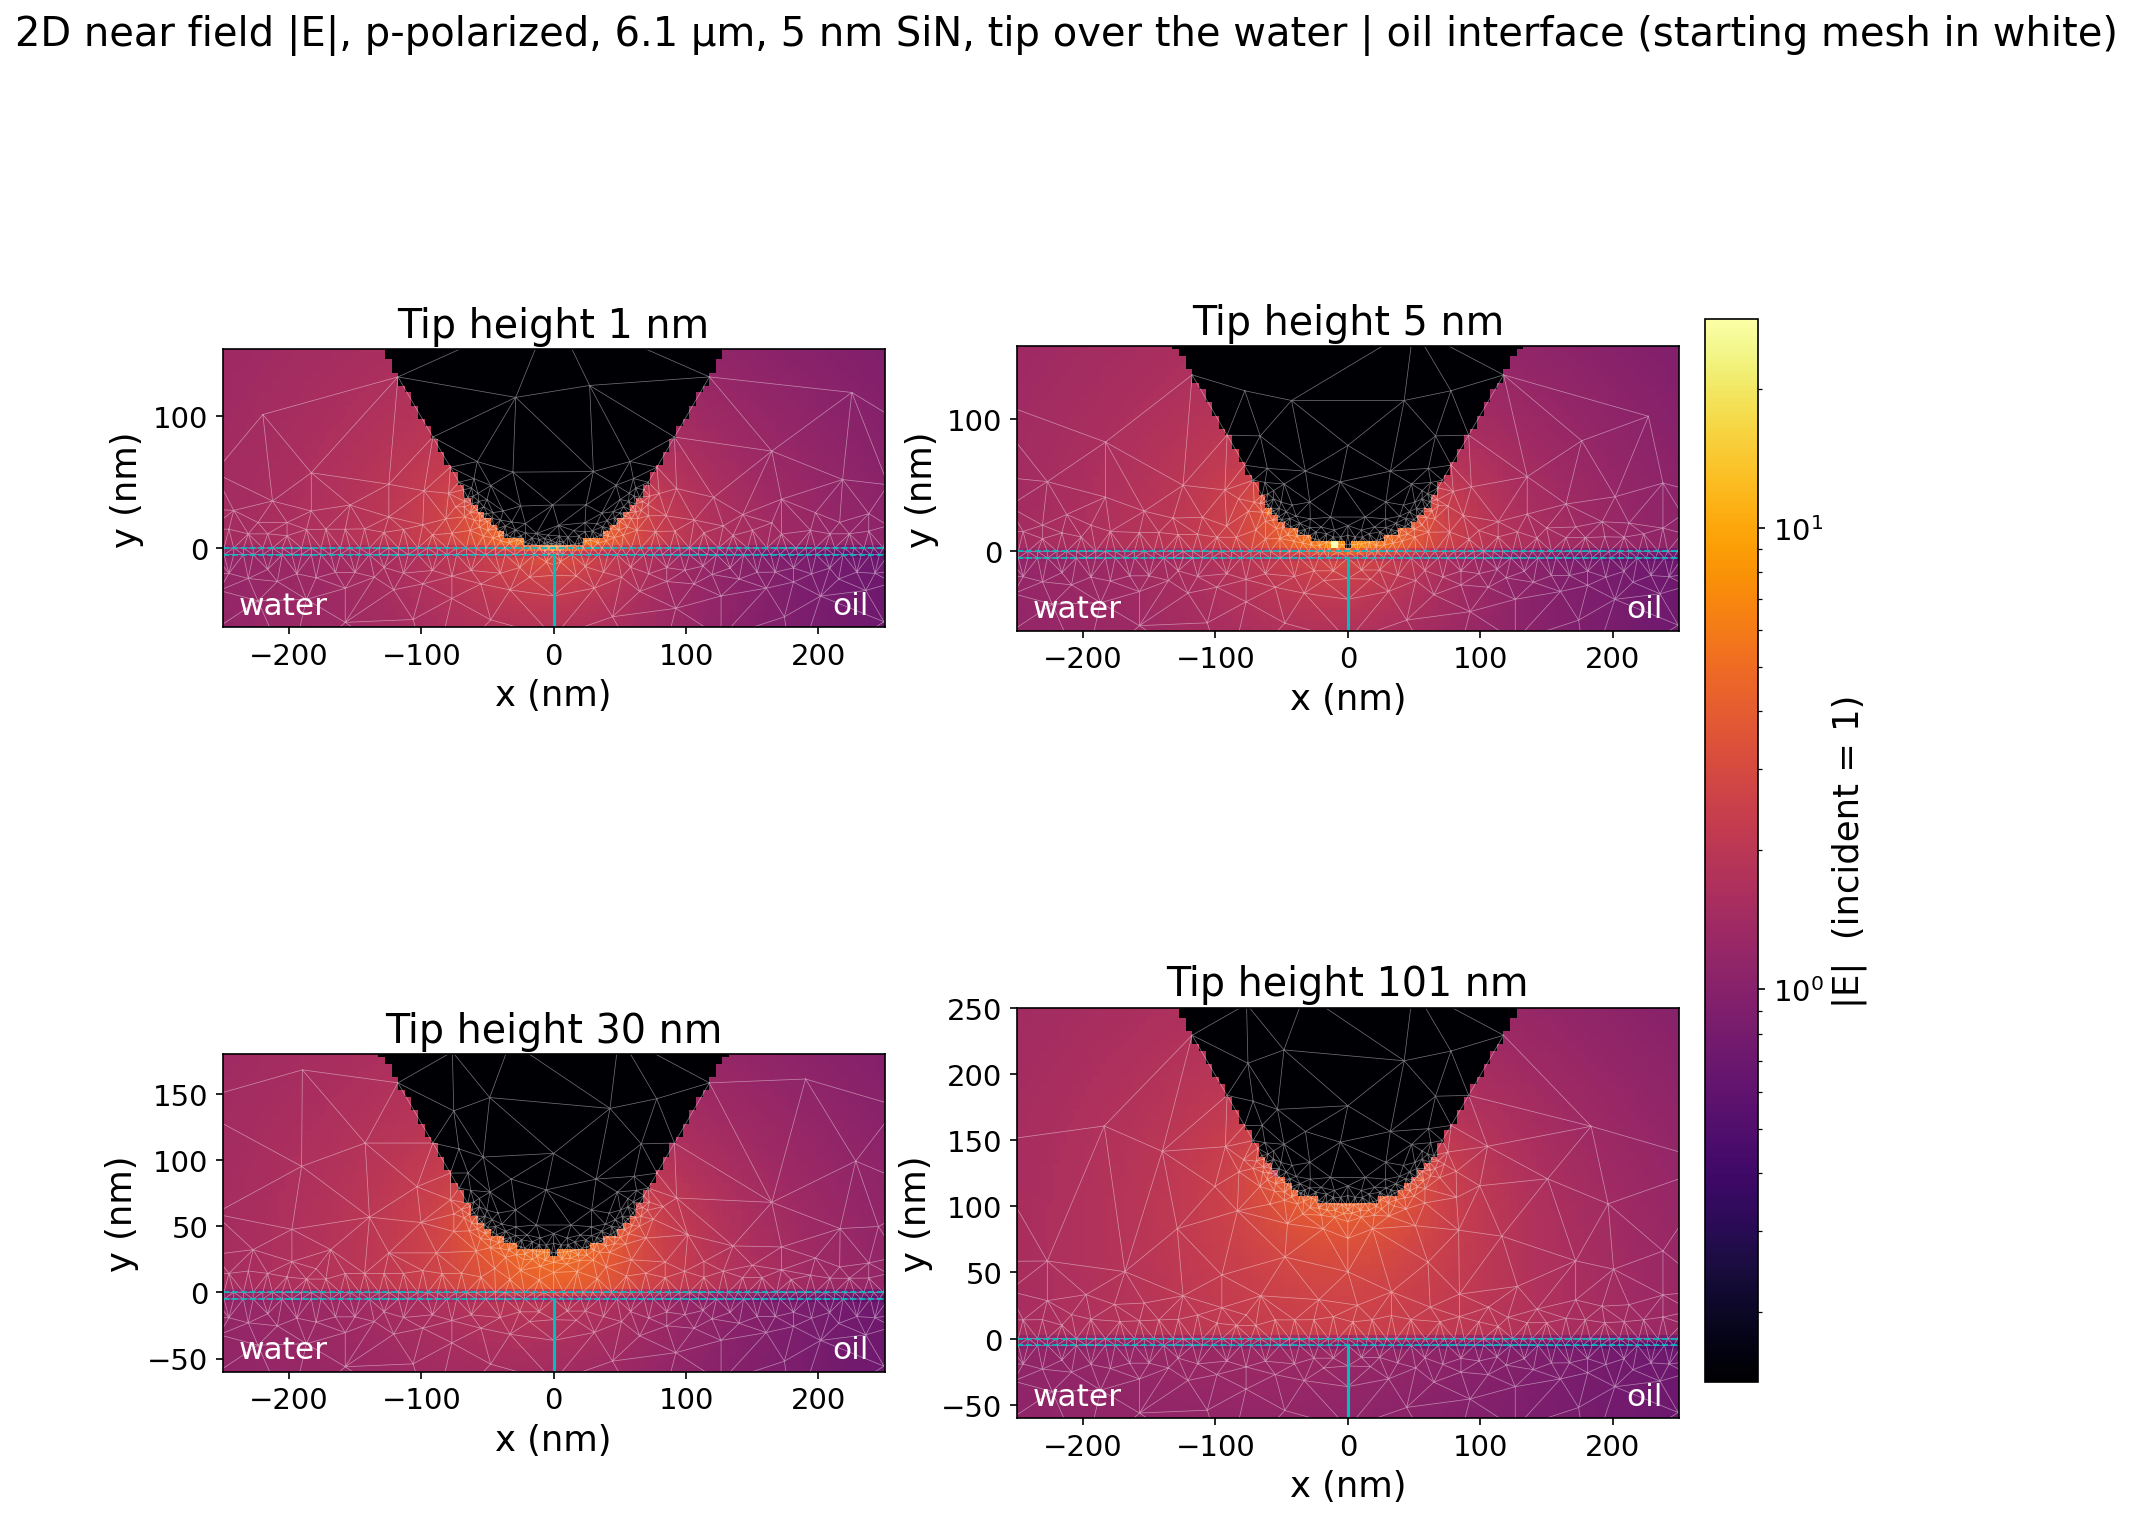
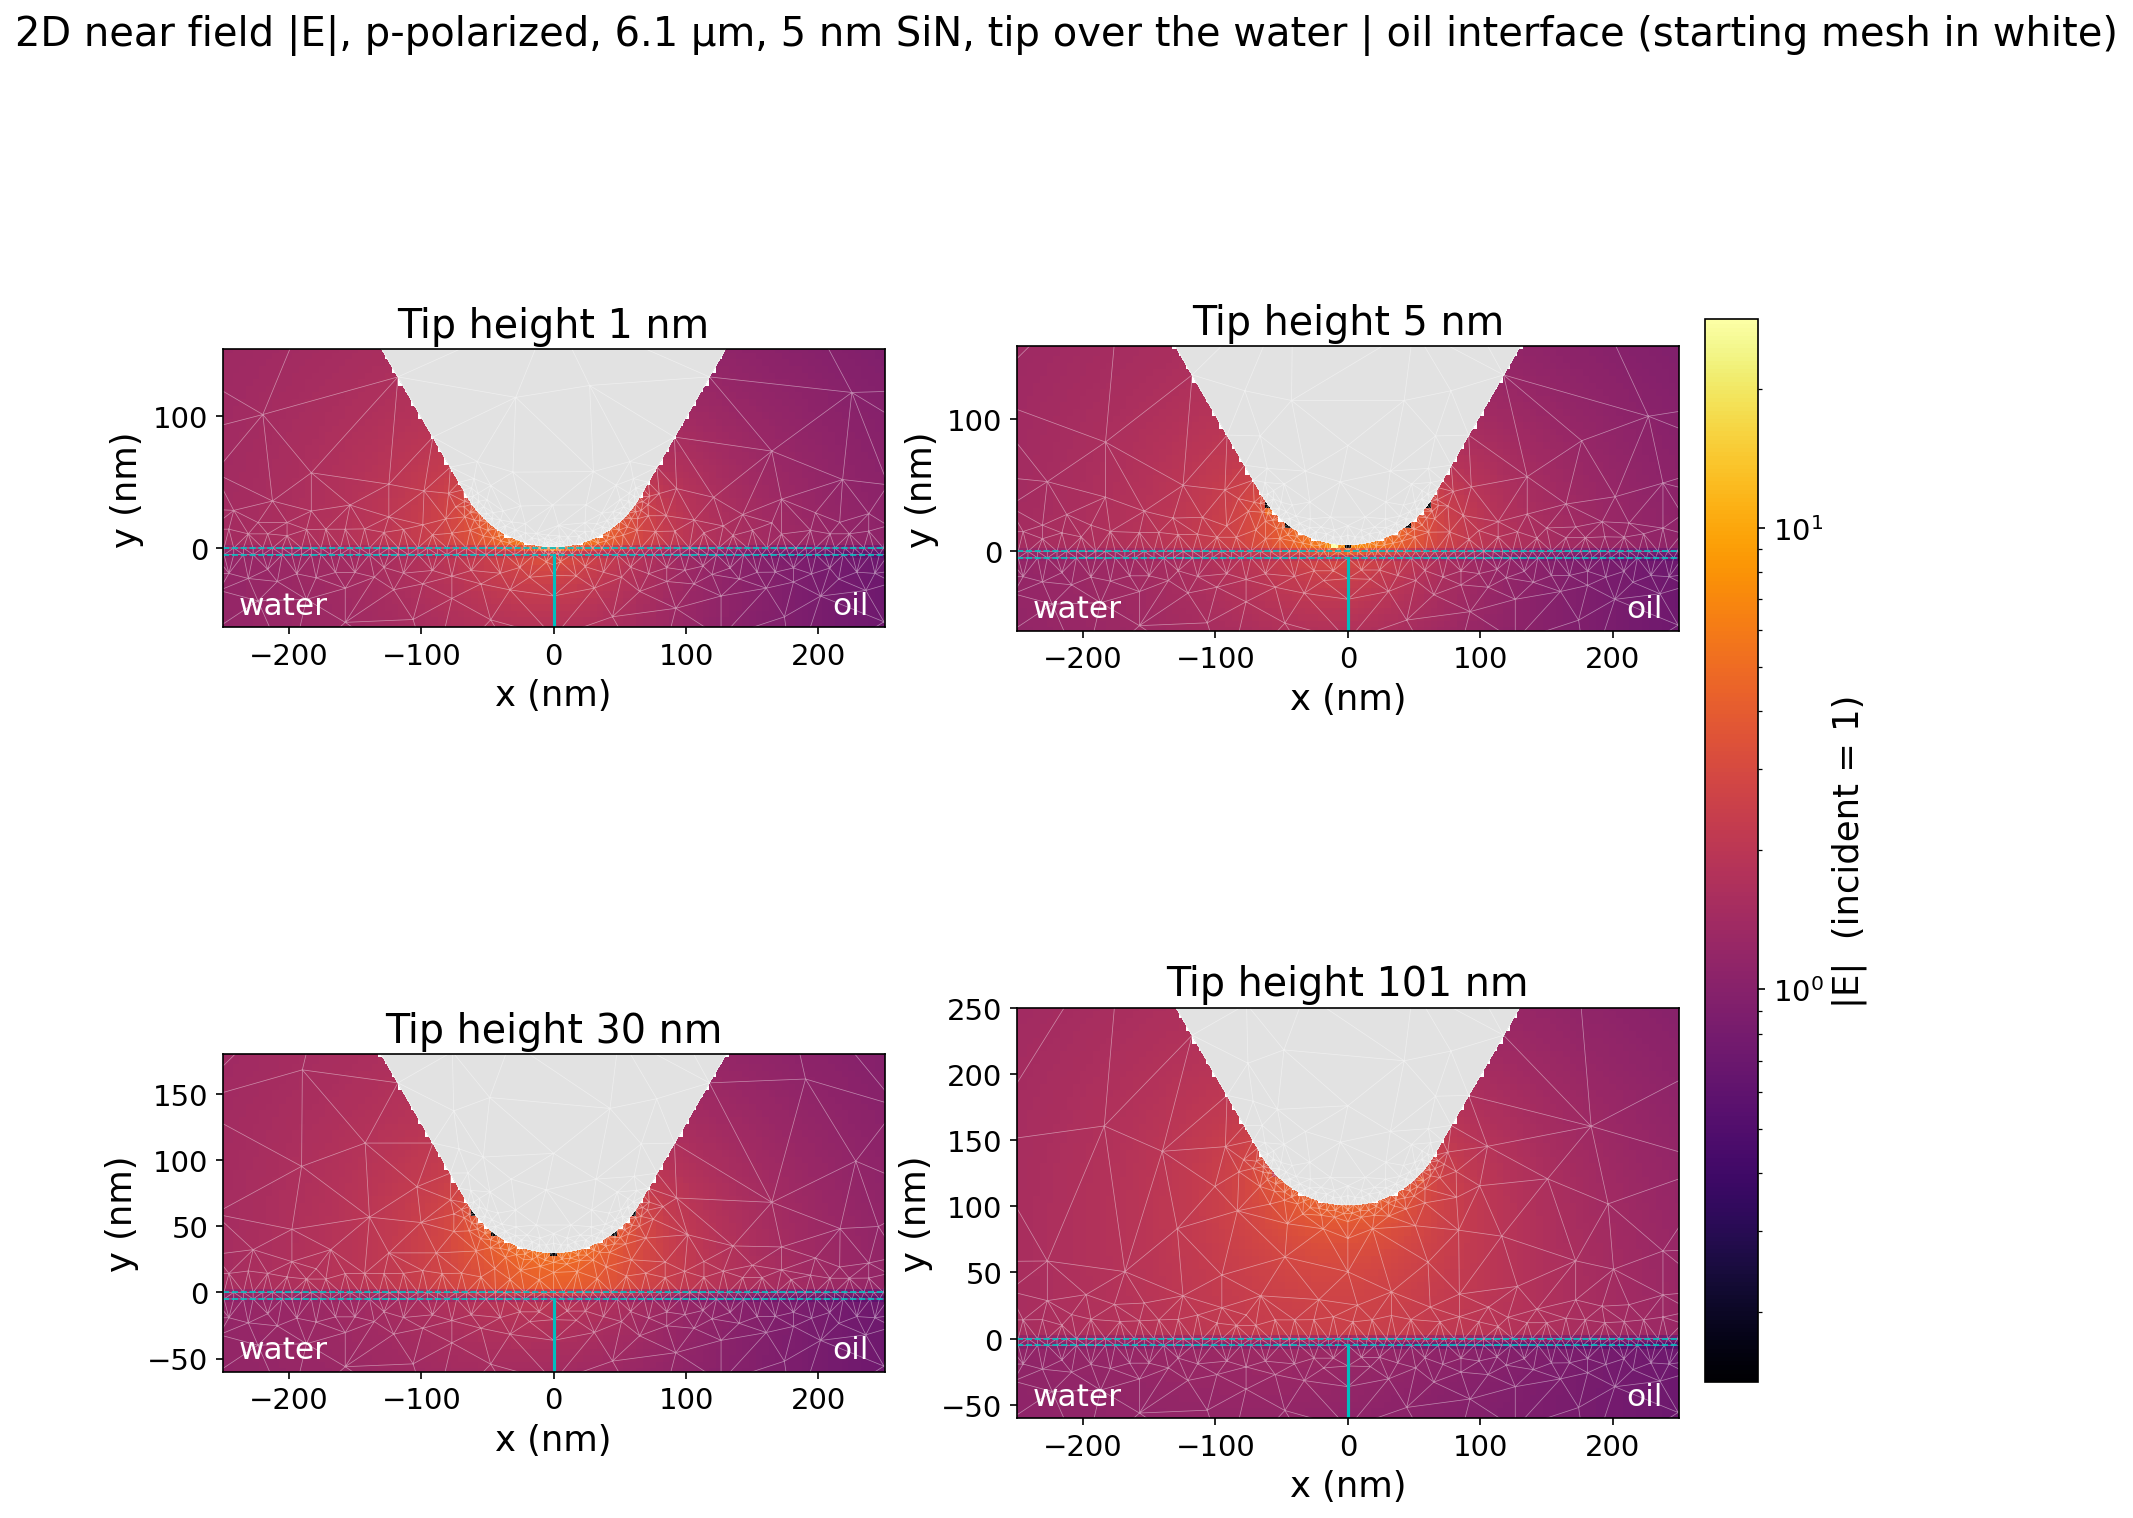
2D: near-field maps draw the tip from the mesh (field masked inside the tip)

diff --git a/Interface_LineScan_2D/plot_2d.py b/Interface_LineScan_2D/plot_2d.py
@@ -1041,14 +1041,19 @@ def plot_nearfield_maps(gaps=(1, 5, 30, 101), mesh=True):
         axs = axs.ravel()
         for ax, g in zip(axs, gaps):
             X, Y, A = maps[g]
-            im = ax.pcolormesh(X, Y, np.clip(A, vmax/200, None), norm=norm, cmap='inferno', shading='auto')
+            px, py, tri, dom = read_grid_2d(glob.glob(os.path.join(RESULTS, 'fields',
+                                                                   f'nearfield_map_x+0_g{g}_*grid.jcm'))[0])
+            tx, ty = px[tri], py[tri]                                      # keep triangles overlapping the window
+            keep = ((tx.min(1) < X.max()) & (tx.max(1) > X.min()) & (ty.min(1) < Y.max()) & (ty.max(1) > Y.min()))
+            tip = Triangulation(px, py, tri[keep & (dom == 3)])          # Pt tip triangles from the mesh
+            inside = tip.get_trifinder()(X, Y) >= 0                       # map points inside the tip: not plotted
+            im = ax.pcolormesh(X, Y, np.ma.masked_where(inside, np.clip(A, vmax/200, None)), norm=norm,
+                               cmap='inferno', shading='auto')
+            ax.tripcolor(tip, np.zeros(len(tip.triangles)), cmap='Greys', vmin=-1, vmax=4, shading='flat')
             if mesh:
-                gf = glob.glob(os.path.join(RESULTS, 'fields', f'nearfield_map_x+0_g{g}_*grid.jcm'))
-                if gf:
-                    px, py, tri, dom = read_grid_2d(gf[0])
-                    keep = np.all((px[tri] > X.min() - 50) & (px[tri] < X.max() + 50) &
-                                  (py[tri] > Y.min() - 50) & (py[tri] < Y.max() + 50), axis=1)
-                    ax.triplot(Triangulation(px, py, tri[keep]), color='w', lw=0.35, alpha=0.45)
+                ax.triplot(Triangulation(px, py, tri[keep]), color='w', lw=0.35, alpha=0.45)
+            else:
+                ax.triplot(tip, color='0.45', lw=0.0)
             ax.axhline(0, color='c', lw=0.8, ls='--')
             ax.axhline(-GEOM_T_SIN, color='c', lw=0.8, ls='--')
             ax.plot([0, 0], [Y.min(), -GEOM_T_SIN], color='c', lw=1.5)          # water | oil interface
